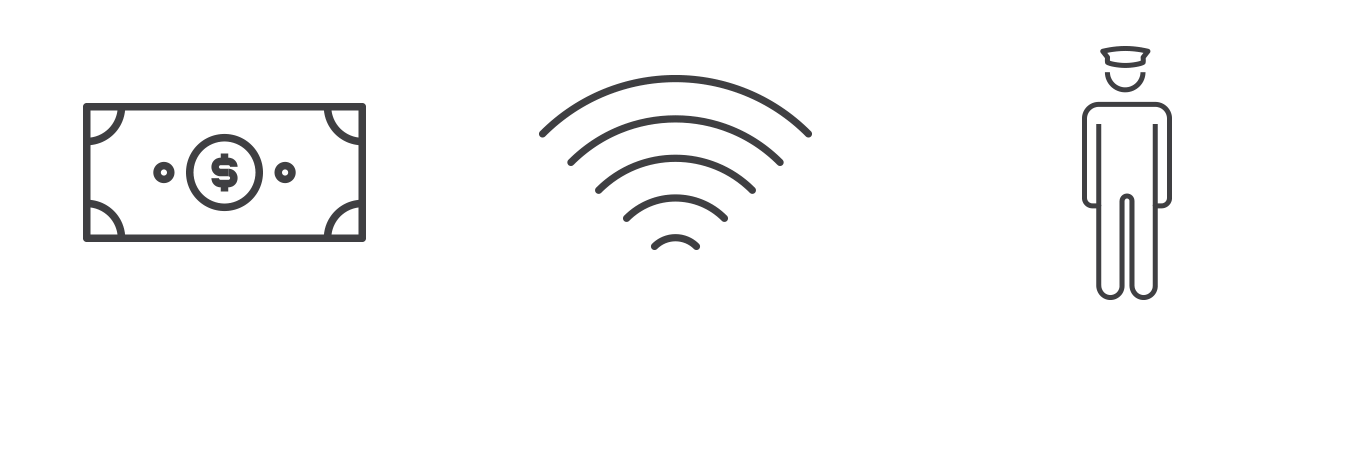
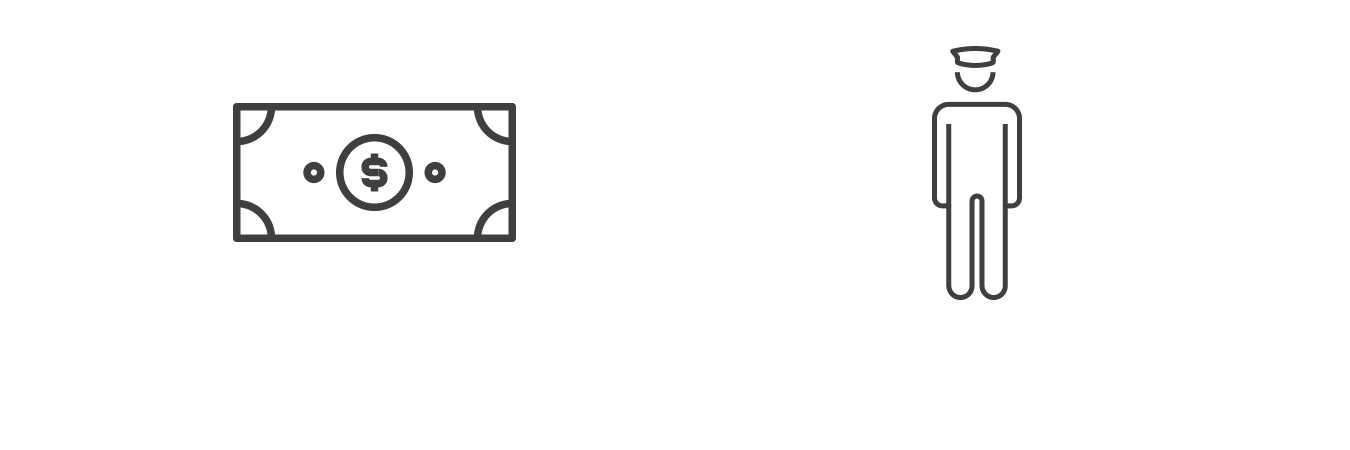
Se eliminó wifi de la información

diff --git a/index.md b/index.md
@@ -43,28 +43,28 @@ id: Home
 
 <div class="container index-valor">
   <div class="row">
-    <div class="col-md-3">
+    <div class="col-md-4">
       <div class="text-center">
         <img src="img/icon-shield.svg" alt="Jetty, Seguridad">
       </div>
       <h3>Seguridad</h3>
       <p>Todas nuestras unidades cuentan con cámaras de vigilancia y son monitoreadas vía GPS.</p>
     </div>
-    <div class="col-md-3">
+    <!-- <div class="col-md-3">
       <div class="text-center">
         <img src="img/icon-wifi.svg" alt="Jetty, Conectividad">
       </div>
       <h3>Conectividad</h3>
       <p>Durante el viaje, carga tu celular y conéctate a nuestro Wi-Fi.</p>
-    </div>
-    <div class="col-md-3">
+    </div> -->
+    <div class="col-md-4">
       <div class="text-center">
         <img src="img/icon-support.svg" alt="Jetty, Tranquilidads">
       </div>
       <h3>Tranquilidad</h3>
       <p>Nuestros conductores y el equipo de soporte, están capacitados para darte el mejor servicio.</p>
     </div>
-    <div class="col-md-3">
+    <div class="col-md-4">
       <div class="text-center">
         <img src="img/icon-gps.svg" alt="Jetty, Eficiencia">
       </div>

diff --git a/transporte-eventos.md b/transporte-eventos.md
@@ -141,7 +141,7 @@ id: transporte-eventos
     <div class="col-md-4 text-center">
       <img src="img/interiores.png" class="img-servicios">
       <h3>Equipamiento</h3>
-      <p>Aire acondicionado en cabina y para pasajeros, 4 cargadores USB por fila, GPS, WiFi, Cámaras de seguridad hacia el interior y el exterior.</p>
+      <p>Aire acondicionado en cabina y para pasajeros, 4 cargadores USB por fila, GPS, Cámaras de seguridad hacia el interior y el exterior.</p>
     </div>
     <div class="col-md-4 text-center">
       <img src="img/camionetas.png" class="img-servicios">

diff --git a/beneficios.md b/beneficios.md
@@ -133,7 +133,7 @@ id: Beneficios
               <line class="sty0" x1="19.2" y1="41.1" x2="123.6" y2="41.1"/>
             </g>
             </svg>
-          <p class="lead"><strong>Mandar ese último correo en el viaje de regreso y disfrutar del acceso al WiFi gratis.</strong></p>
+          <p class="lead"><strong>Mandar ese último correo en el viaje de regreso.</strong></p>
           <p>En Jetty puedes sacar tranquilamente tu celular o laptop.</p>
         </div>
         <div class="col-md-4 text-center beneficio" data-aos="fade" data-aos-easing="ease-in-sine">

diff --git a/transporte-personal.md b/transporte-personal.md
@@ -39,7 +39,7 @@ id: transporte-personal
         <img src="img/icon-seguridad.svg">
         <h2>Vehículos de primera</h2>
       </div>
-      <p>Todos cuentan con <b>cinturones de seguridad</b> en todos los asientos, AC, USBs, GPS, <b>Wi-Fi y cámaras de seguridad.</b></p>
+      <p>Todos cuentan con <b>cinturones de seguridad</b> en todos los asientos, AC, USBs, GPS, y<b> cámaras de seguridad.</b></p>
     </div>
     <div class="col-md-4">
       <div class="text-center">
